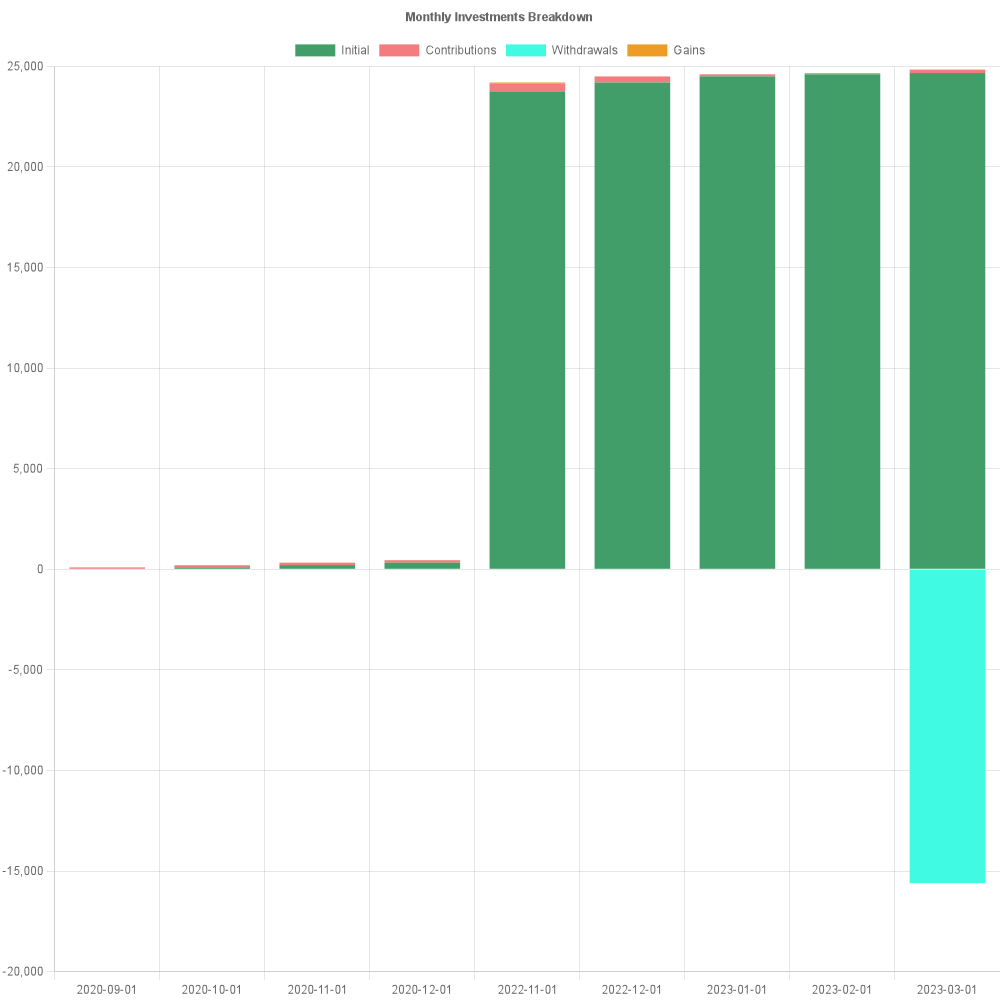
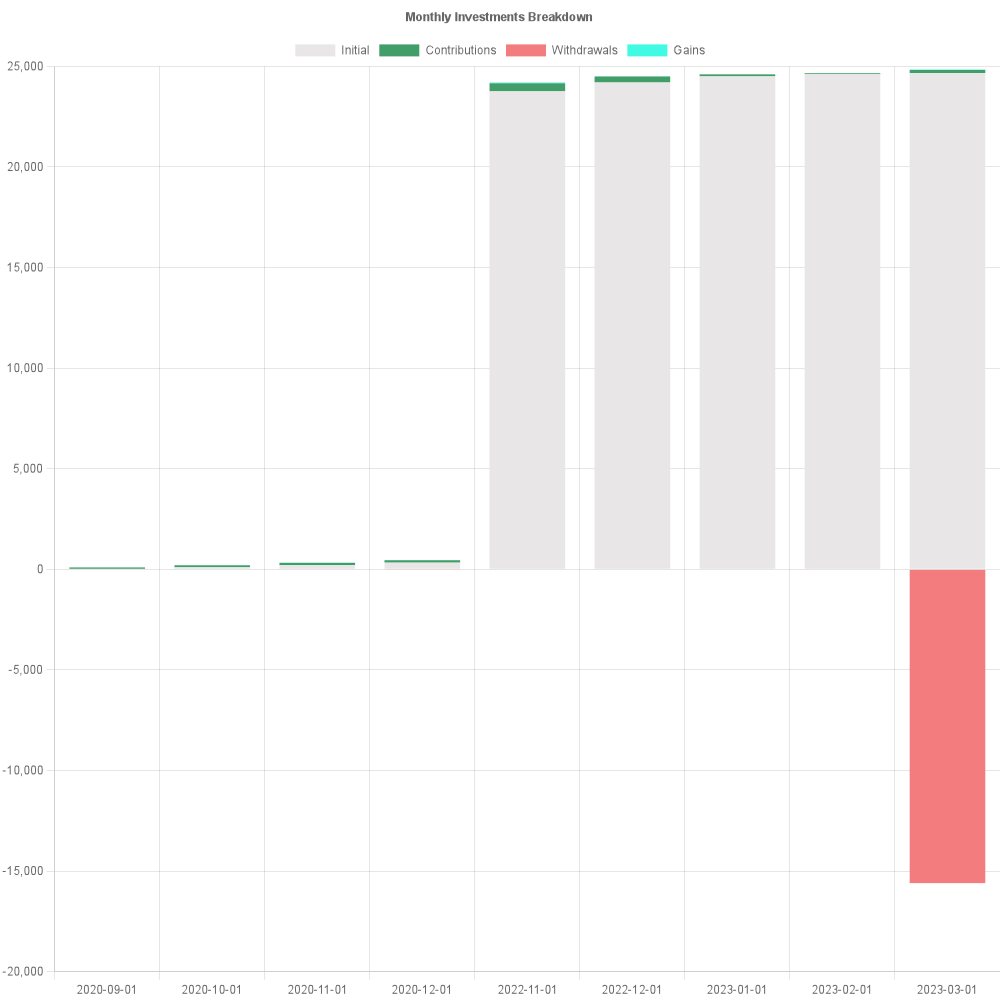
Endpoint to get stacked data by year

diff --git a/resources/analytics/analytics-investments.controller.js b/resources/analytics/analytics-investments.controller.js
@@ -14,12 +14,26 @@ const AnalyticsInvestmentsController = {
             endDate: req.query.endDate,
         }
         const records = await InvestmentsService.getAllRecords(db, filter);
-        const stackedDataSets = AnalyticsInvestmentsService.convertStackedByMonth(records);
+        const stackedDataSets = AnalyticsInvestmentsService.convertStackedByPeriod(records, 'month');
         const options = {
             showLegend: true,
         };
         const config = ChartService.createStackedBar(stackedDataSets, "Monthly Investments Breakdown", options);
         AnalyticsController.createAndSendImage(config, "monthly-investments-breakdown.png", res);
+    },
+    getStackedByYear: async (req, res, next) => {
+        const db = await Database.getDb();
+        const filter = {
+            from: req.query.from,
+            to: req.query.to,
+        }
+        const records = await InvestmentsService.getByYear(db, filter);
+        const stackedDataSets = AnalyticsInvestmentsService.convertStackedByPeriod(records, 'year');
+        const options = {
+            showLegend: true,
+        };
+        const config = ChartService.createStackedBar(stackedDataSets, "Yearly Investments Breakdown", options);
+        AnalyticsController.createAndSendImage(config, "yearly-investments-breakdown.png", res);
     },
     getNetContributionsVsGainsByMonth: async (req, res, next) => {
         const db = await Database.getDb();

diff --git a/server.js b/server.js
@@ -36,6 +36,7 @@ function setupRoutes() {
 
   
   app.get('/analytics/investments/stacked/month', AnalyticsInvestmentsController.getStackedByMonth);
+  app.get('/analytics/investments/stacked/year', AnalyticsInvestmentsController.getStackedByYear);
   app.get('/analytics/investments/net-contributions-vs-gains/month', AnalyticsInvestmentsController.getNetContributionsVsGainsByMonth);
   app.get('/analytics/investments/net-contributions-vs-gains/year', AnalyticsInvestmentsController.getNetContributionsVsGainsByYear);
   app.get('/analytics/investments/net-contributions/month', AnalyticsInvestmentsController.getNetContributionsByMonth);
@@ -45,10 +46,6 @@ function setupRoutes() {
   app.get('/analytics/investments/growth/month', AnalyticsInvestmentsController.getGrowthByMonth);
   app.get('/analytics/investments/growth/year', AnalyticsInvestmentsController.getGrowthByYear);
 
-  /**
-  Breakdown by month - Stacked bar (option to show initial or not)
-  Breakdown by year - Stacked bar (option to show initial or not)
-   */
 
   
 

diff --git a/resources/analytics/chart.service.js b/resources/analytics/chart.service.js
@@ -18,6 +18,7 @@ ChartService = {
         'rgb(204, 80, 133)',
         'rgb(105, 101, 230)',
     ],
+    gray: 'rgb(232,230,230)',
     createImage: async (configuration, height = 1000, width = 1000) => {
         const chartJSNodeCanvas = new ChartJSNodeCanvas ({ type: 'png', width: width, height: height });
         const dataUrl = await chartJSNodeCanvas.renderToDataURL(configuration); // converts chart to image
@@ -63,8 +64,8 @@ ChartService = {
                     return {
                         label: dataset.label,
                         data: dataset.data,
-                        backgroundColor: ChartService.basicColors[i],
-                        borderColor: ChartService.basicColors[i],
+                        backgroundColor: i === 0 ? ChartService.gray : ChartService.basicColors[i-1],
+                        borderColor: i === 0 ? ChartService.gray : ChartService.basicColors[i-1],
                     };
                 }),
             },

diff --git a/resources/analytics/analytics-investments.service.js b/resources/analytics/analytics-investments.service.js
@@ -53,7 +53,7 @@ AnalyticsInvestmentsService = {
             }
         });
     },
-    convertStackedByMonth: (data) => {
+    convertStackedByPeriod: (data, period) => {
         /**
          * {
          *  labels: string[]
@@ -66,7 +66,7 @@ AnalyticsInvestmentsService = {
         let withdrawals = [];
         let gains = [];
         data.forEach(row => {
-            labels.push(row[COLUMNS.RecordDate]);
+            labels.push(period === 'month' ? row[COLUMNS.RecordDate] : row[YearColumns.Year]);
             initial.push(Money.centsToMoney(row[COLUMNS.Initial]));
             contributions.push(Money.centsToMoney(row[COLUMNS.Contributions]));
             withdrawals.push(Money.centsToMoney(-1 * row[COLUMNS.Withdrawals]));
@@ -82,8 +82,6 @@ AnalyticsInvestmentsService = {
                 {label: 'Gains', data: gains},
             ]
         };
-        
-
     }
 }
 
